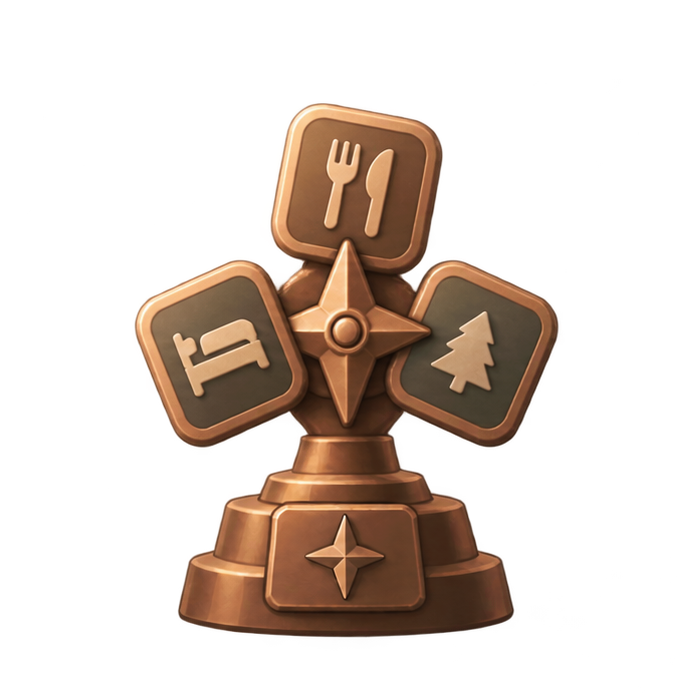
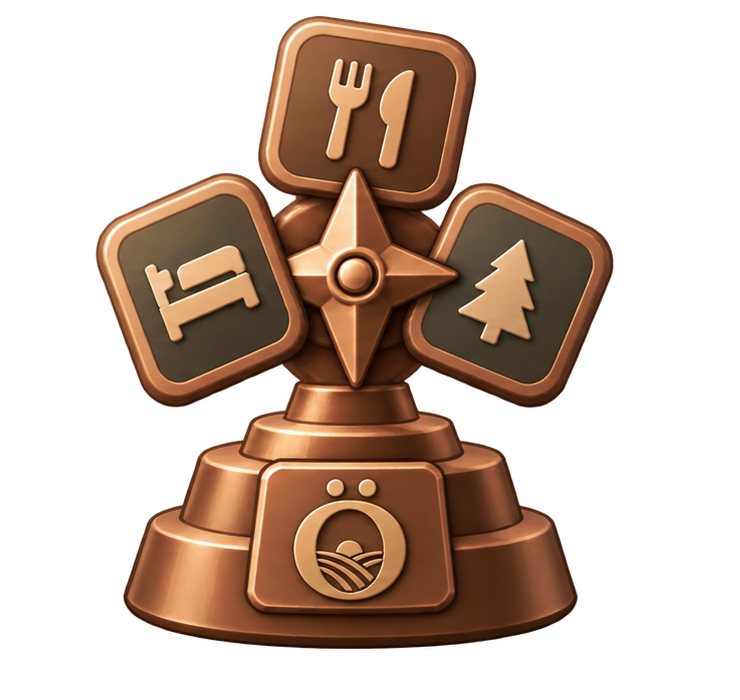
Utmaningar: logotyp istället för stjärna på alla 21 troféer, fixa tillbaka-knappen på riktigt
Alla 21 troféer (assets/badges/) bytta mot en ny ChatGPT-omgång där
appens logotyp sitter på plaketten istället för en generisk stjärna —
gör det mer "eget" än en gamification-mall. Samma filnamn som innan,
så BADGE_IMAGES-mappningen i app/challenges.tsx behövde inte ändras.

Riktiga tillbaka-knappen-buggen hittad och fixad: GlowCanvas (den
delade glöd-komponenten) saknade pointerEvents="none". Hero-glöden bakom
den stora medaljen är avsiktligt mycket större än medaljen själv (för att
tona ut mjukt), vilket gjorde att dess osynliga rityta fysiskt låg ovanpå
headern och stal touchen — route-koden (router.back()) var hela tiden
korrekt. Ett tidigare försök att "fixa" det genom att byta till
router.replace() gjorde bara att tillbaka-animationen gick åt fel håll;
det är nu återställt till router.back() nu när grundorsaken är löst.

diff --git a/app/challenges.tsx b/app/challenges.tsx
@@ -87,7 +87,15 @@ function GlowCanvas({
   const pad = Math.max(neededHalf - size / 2, 0) + size * 0.1;
   const canvasSize = size + pad * 2;
   return (
-    <Canvas style={{ position: "absolute", width: canvasSize, height: canvasSize, left: -pad, top: -pad }}>
+    // pointerEvents="none" är kritiskt: duken kan bli mycket större än den
+    // synliga medaljen (se hero-glöden, som sträcker sig ~350px åt varje
+    // håll) och skulle annars fånga tryck som var menade för det som ligger
+    // ovanför/bredvid — t.ex. headerns tillbaka-knapp — trots att den är
+    // osynlig där.
+    <Canvas
+      style={{ position: "absolute", width: canvasSize, height: canvasSize, left: -pad, top: -pad }}
+      pointerEvents="none"
+    >
       <Circle cx={canvasSize / 2} cy={canvasSize / 2} r={size * radiusRatio} color={color} opacity={opacity}>
         <BlurMask blur={size * blurRatio} style="normal" />
       </Circle>
@@ -437,7 +445,7 @@ export default function ChallengesScreen() {
     <View style={{ flex: 1, backgroundColor: BG }}>
       {isLoading ? (
         <View style={{ flex: 1 }}>
-          <ChallengesHeader safeTop={safeTop} onBack={() => router.replace("/(tabs)/profile" as any)} />
+          <ChallengesHeader safeTop={safeTop} onBack={() => router.back()} />
           <View style={{ flex: 1, alignItems: "center", justifyContent: "center" }}>
             <Text style={{ fontFamily: "Inter_400Regular", fontSize: 14, color: MUTED }}>Laddar utmaningar…</Text>
           </View>
@@ -453,7 +461,7 @@ export default function ChallengesScreen() {
         >
           {/* Headern ligger i scrollflödet, inte fast/sticky ovanpå —
               den ska scrolla bort tillsammans med resten av sidan. */}
-          <ChallengesHeader safeTop={safeTop} onBack={() => router.replace("/(tabs)/profile" as any)} />
+          <ChallengesHeader safeTop={safeTop} onBack={() => router.back()} />
           <TrophyGrid
             trophies={trophies}
             celebratingKeys={celebrating}
